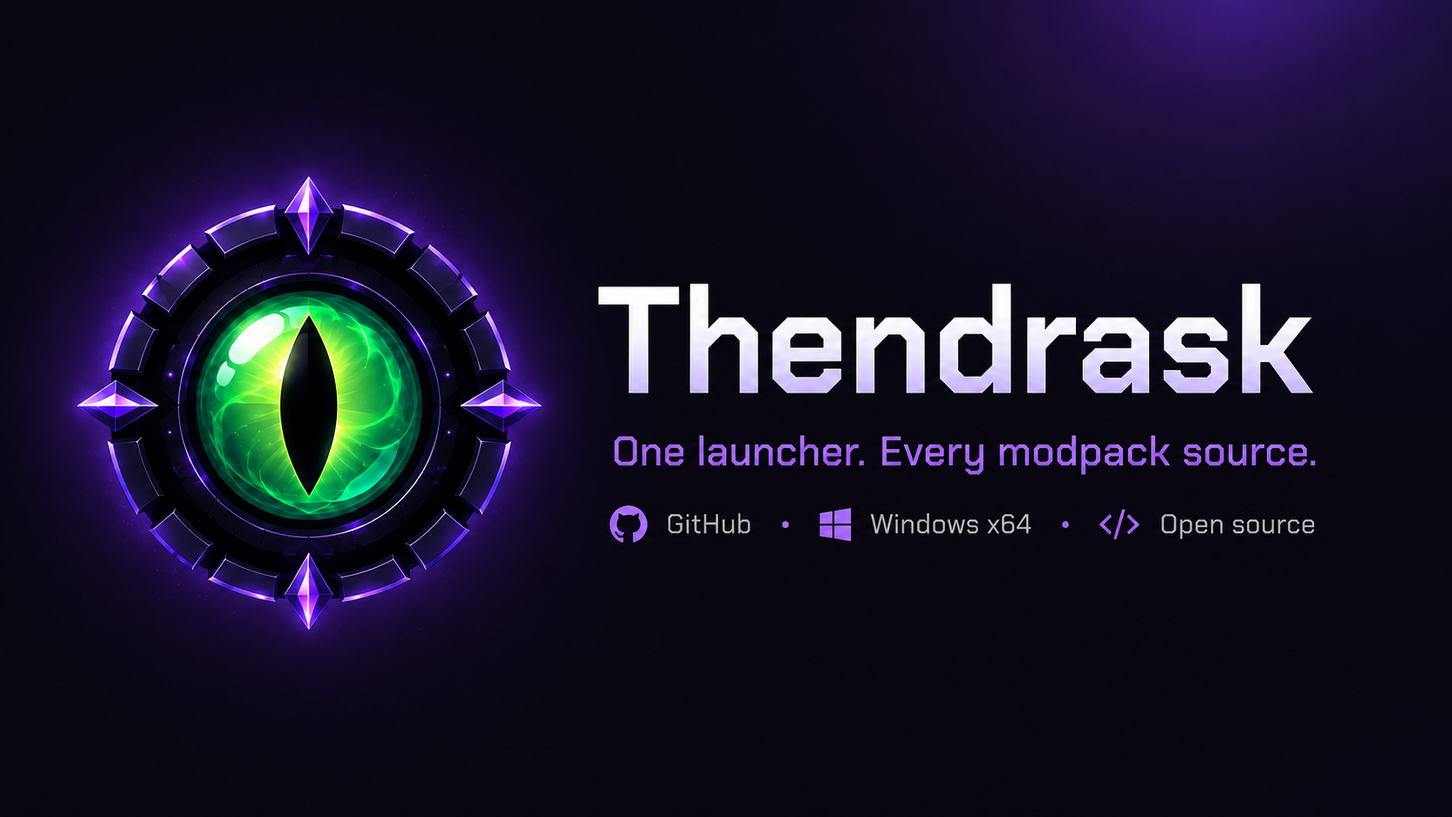
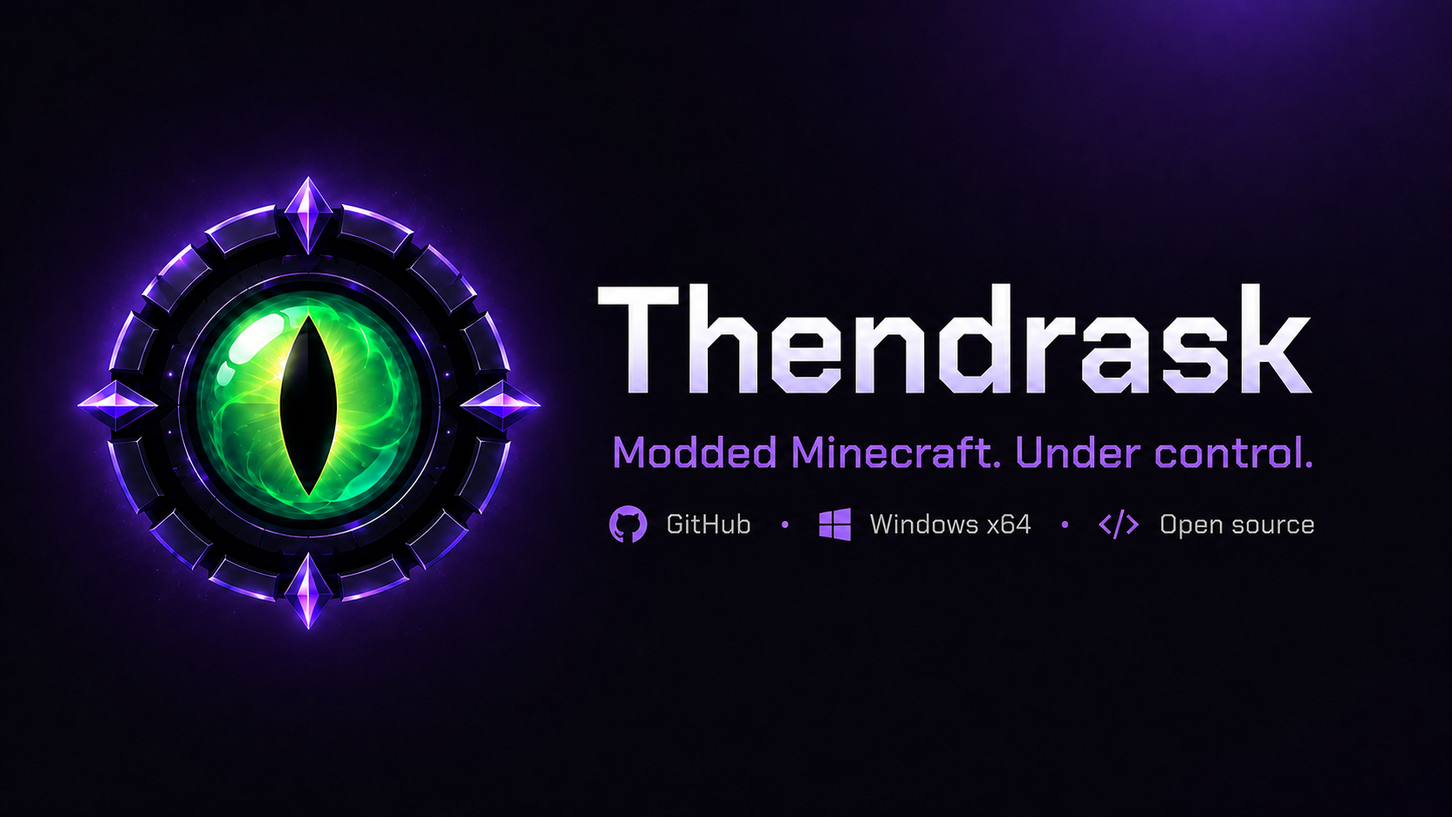
Align site with public mod sources (#3)

diff --git a/features.html b/features.html
@@ -4,7 +4,7 @@
 <meta charset="UTF-8" />
 <meta name="viewport" content="width=device-width, initial-scale=1.0" />
 <title>Features | Thendrask Launcher - Open-Source Minecraft Launcher</title>
-<meta name="description" content="Explore Thendrask Launcher: the optional GregTech Hub, GTNH updates and add-ons, six modpack sources, guided setup, safe updates, repair and backups." />
+<meta name="description" content="Explore Thendrask Launcher: Modrinth and FTB browsing, the optional GregTech Hub, guided setup, safe updates, repair and backups." />
 <link rel="canonical" href="https://thendrask.org/features" />
 
 <link rel="icon" href="assets/favicon.ico" sizes="any" />
@@ -16,7 +16,7 @@
 <meta property="og:type" content="website" />
 <meta property="og:url" content="https://thendrask.org/features" />
 <meta property="og:title" content="Features | Thendrask Launcher" />
-<meta property="og:description" content="Build custom packs, browse six sources, and protect instances with safe updates, snapshots, repair, diagnostics and portable backups." />
+<meta property="og:description" content="Build custom packs, browse Modrinth and FTB, and protect instances with safe updates, snapshots, repair, diagnostics and portable backups." />
 <meta property="og:image" content="https://thendrask.org/assets/og.png" />
 <meta property="og:site_name" content="Thendrask Launcher" />
 <meta name="twitter:card" content="summary_large_image" />
@@ -137,7 +137,7 @@
         <div class="feat-card glow reveal">
           <div class="ic"><svg viewBox="0 0 24 24" fill="none" stroke="currentColor" stroke-width="2" stroke-linecap="round" stroke-linejoin="round"><path d="M12 2v20M2 12h20"/><circle cx="12" cy="12" r="8"/></svg></div>
           <h3>Verified community add-ons</h3>
-          <p>Install curated GTNH community releases pinned to versions verified against the selected pack. The Hub also searches compatible GregTech mods across CurseForge and Modrinth.</p>
+          <p>Install curated GTNH community releases pinned to versions verified against the selected pack. The Hub also searches Modrinth for compatible GregTech mods.</p>
           <div class="detail"><ul>
             <li>Version-checked GTNH add-ons</li>
             <li>Required dependencies included</li>
@@ -164,7 +164,7 @@
         <div class="feat-card glow reveal">
           <div class="ic"><svg viewBox="0 0 24 24" fill="none" stroke="currentColor" stroke-width="2" stroke-linecap="round" stroke-linejoin="round"><path d="M5 12l4 4L19 6"/><path d="M4 4h16v16H4z"/></svg></div>
           <h3>Guided first run</h3>
-          <p>A short setup wizard walks through Microsoft sign-in, optional CurseForge access and community features. GregTech stays disabled unless you choose it.</p>
+          <p>A short setup wizard walks through Microsoft sign-in and optional community features. GregTech stays disabled unless you choose it.</p>
         </div>
         <div class="feat-card glow reveal">
           <div class="ic"><svg viewBox="0 0 24 24" fill="none" stroke="currentColor" stroke-width="2" stroke-linecap="round" stroke-linejoin="round"><path d="M4 8h16M4 16h16"/><circle cx="9" cy="8" r="2"/><circle cx="15" cy="16" r="2"/></svg></div>
@@ -186,13 +186,13 @@
       <div class="feat-row" data-stagger>
         <div class="feat-card glow reveal">
           <div class="ic"><svg viewBox="0 0 24 24" fill="none" stroke="currentColor" stroke-width="2" stroke-linecap="round" stroke-linejoin="round"><circle cx="11" cy="11" r="7"/><path d="m21 21-4.3-4.3"/></svg></div>
-          <h3>Six sources, one window</h3>
-          <p>Browse Modrinth, CurseForge, FTB (modern and legacy), ATLauncher, and Technic without switching apps or opening a browser. Search, filter by category, and sort by popular, updated, or newest.</p>
+          <h3>Modrinth and FTB, one window</h3>
+          <p>Browse Modrinth plus modern and legacy FTB packs without switching apps. Modrinth supports category filters and sorting by popular, updated, or newest.</p>
           <div class="detail">
             <ul>
               <li>Sort by popular, updated, or newest</li>
               <li>Filter by modpack category</li>
-              <li>One-click install from any source</li>
+              <li>Install supported packs in-app</li>
             </ul>
           </div>
         </div>
@@ -213,11 +213,8 @@
       <div class="sources-strip reveal">
         <span class="label">Supported sources</span>
         <span class="chip"><span class="d">›</span>Modrinth</span>
-        <span class="chip"><span class="d">›</span>CurseForge</span>
         <span class="chip"><span class="d">›</span>FTB</span>
         <span class="chip"><span class="d">›</span>FTB Legacy</span>
-        <span class="chip"><span class="d">›</span>ATLauncher</span>
-        <span class="chip"><span class="d">›</span>Technic</span>
       </div>
     </div>
 
@@ -229,7 +226,7 @@
         <div class="feat-card glow reveal">
           <div class="ic"><svg viewBox="0 0 24 24" fill="none" stroke="currentColor" stroke-width="2" stroke-linecap="round" stroke-linejoin="round"><path d="M12 3v18M3 12h18"/><circle cx="12" cy="12" r="9"/></svg></div>
           <h3>Custom modpack builder</h3>
-          <p>Start with Fabric, Forge, NeoForge or Quilt, then search Modrinth and CurseForge for mods that match that exact Minecraft version and loader.</p>
+          <p>Start with Fabric, Forge, NeoForge or Quilt, then search Modrinth for mods that match that exact Minecraft version and loader.</p>
           <div class="detail">
             <ul>
               <li>Compatibility-filtered mod search</li>
@@ -411,21 +408,21 @@
         <div class="cmp-row">
           <span class="cmp-feat">Browse CurseForge packs</span>
           <span class="cmp-support">Built in</span>
-          <span class="cmp-support">Built in</span>
+          <span class="cmp-none">Unavailable</span>
           <span class="cmp-support">Built in</span>
           <span class="cmp-none">Not built in</span>
         </div>
         <div class="cmp-row">
           <span class="cmp-feat">Browse ATLauncher packs</span>
           <span class="cmp-none">Not built in</span>
-          <span class="cmp-support">Built in</span>
+          <span class="cmp-none">Unavailable</span>
           <span class="cmp-support">Built in</span>
           <span class="cmp-none">Not built in</span>
         </div>
         <div class="cmp-row">
           <span class="cmp-feat">Browse Technic packs</span>
           <span class="cmp-none">Not built in</span>
-          <span class="cmp-support">Built in</span>
+          <span class="cmp-none">Unavailable</span>
           <span class="cmp-support">Built in</span>
           <span class="cmp-none">Not built in</span>
         </div>
@@ -475,7 +472,7 @@
       </div>
       <div class="comparison-disclosure reveal">
         <strong>About this matrix</strong>
-        <p>Last checked 27 July 2026 against public, official documentation. “Built in” means the launcher provides an integrated catalogue for browsing and installing that source; it does not cover manual archive imports. Prism’s FTB entry means FTB Legacy browsing plus FTB App import, not direct browsing of the current FTB catalogue.</p>
+        <p>Last checked 28 July 2026 against Thendrask’s current public-build policy and public, official documentation. “Built in” means the launcher provides an integrated catalogue for browsing and installing that source; it does not cover manual archive imports. CurseForge is temporarily disabled in Thendrask public builds. ATLauncher and Technic are unavailable pending explicit provider permission. Prism’s FTB entry means FTB Legacy browsing plus FTB App import, not direct browsing of the current FTB catalogue.</p>
         <p>Sources: <a class="link" href="https://prismlauncher.org/wiki/getting-started/download-modpacks/" target="_blank" rel="noopener">Prism pack providers</a>, <a class="link" href="https://modrinth.com/app/" target="_blank" rel="noopener">Modrinth App</a>, and <a class="link" href="https://support.curseforge.com/support/solutions/articles/9000218572-minecraft-getting-started" target="_blank" rel="noopener">CurseForge</a>. Third-party product names are trademarks of their respective owners. This independent compatibility matrix does not imply affiliation, sponsorship, or endorsement. If an entry has changed, <a class="link" href="https://github.com/Sxarlos/ThendraskLauncherSite/issues/new" target="_blank" rel="noopener">report a correction</a>.</p>
       </div>
     </div>

diff --git a/index.html b/index.html
@@ -3,8 +3,8 @@
 <head>
 <meta charset="UTF-8" />
 <meta name="viewport" content="width=device-width, initial-scale=1.0" />
-<title>Thendrask Launcher | Free Open-Source Minecraft Launcher for Modrinth &amp; CurseForge</title>
-<meta name="description" content="Every modpack source in one dependable, open-source Minecraft launcher. Browse Modrinth, CurseForge, FTB, ATLauncher and Technic, build custom instances, and recover safely." />
+<title>Thendrask Launcher | Free Open-Source Minecraft Launcher</title>
+<meta name="description" content="A dependable, open-source Minecraft launcher with Modrinth and FTB browsing, custom instances, safe updates, backups and recovery tools." />
 <link rel="canonical" href="https://thendrask.org/" />
 
 <link rel="icon" href="assets/favicon.ico" sizes="any" />
@@ -16,13 +16,13 @@
 <!-- Open Graph / social -->
 <meta property="og:type" content="website" />
 <meta property="og:url" content="https://thendrask.org/" />
-<meta property="og:title" content="Thendrask Launcher - Every modpack source. One dependable launcher." />
-<meta property="og:description" content="Browse and install packs from Modrinth, CurseForge, FTB, ATLauncher and Technic. Build custom instances and recover safely." />
+<meta property="og:title" content="Thendrask Launcher - Modded Minecraft, under control." />
+<meta property="og:description" content="Browse Modrinth and FTB packs, build custom instances, and recover safely with a free, open-source launcher." />
 <meta property="og:image" content="https://thendrask.org/assets/og.png" />
 <meta property="og:site_name" content="Thendrask Launcher" />
 <meta name="twitter:card" content="summary_large_image" />
-<meta name="twitter:title" content="Thendrask Launcher - Every modpack source" />
-<meta name="twitter:description" content="One dependable, open-source launcher for five major modpack services, custom instances and safe recovery." />
+<meta name="twitter:title" content="Thendrask Launcher - Modded Minecraft, under control" />
+<meta name="twitter:description" content="A dependable, open-source launcher with Modrinth and FTB browsing, custom instances and safe recovery." />
 <meta name="twitter:image" content="https://thendrask.org/assets/og.png" />
 <meta name="theme-color" content="#0A0911" />
 
@@ -327,8 +327,8 @@
     <div class="wrap hero-grid">
       <div>
         <span class="eyebrow">Open-source Minecraft launcher</span>
-        <h1>Every modpack source.<br /><span class="accent">One dependable launcher.</span></h1>
-        <p class="lede">Browse and install packs from Modrinth, CurseForge, FTB, ATLauncher and Technic. Build custom instances, keep them updated safely, and recover from problems without losing your worlds.</p>
+        <h1>Modded Minecraft.<br /><span class="accent">Under control.</span></h1>
+        <p class="lede">Browse and install packs from Modrinth and FTB, build custom instances, keep them updated safely, and recover from problems without losing your worlds.</p>
         <div class="cta-row">
           <a class="btn btn-primary" data-windows-download href="https://github.com/Sxarlos/ThendraskLauncher/releases/latest" target="_blank" rel="noopener">
             <svg viewBox="0 0 24 24" fill="none" stroke="currentColor" stroke-width="2.2" stroke-linecap="round" stroke-linejoin="round"><path d="M12 3v12m0 0 4-4m-4 4-4-4M5 21h14"/></svg>
@@ -380,11 +380,8 @@
       <div class="strip reveal">
         <span class="label">Browse &amp; install from</span>
         <span class="chip"><span class="d">›</span>Modrinth</span>
-        <span class="chip"><span class="d">›</span>CurseForge</span>
         <span class="chip"><span class="d">›</span>FTB</span>
         <span class="chip"><span class="d">›</span>FTB Legacy</span>
-        <span class="chip"><span class="d">›</span>ATLauncher</span>
-        <span class="chip"><span class="d">›</span>Technic</span>
       </div>
     </div>
   </section>
@@ -405,8 +402,8 @@
         </div>
         <div class="feat glow reveal">
           <div class="ic"><svg viewBox="0 0 24 24" fill="none" stroke="currentColor" stroke-width="2" stroke-linecap="round" stroke-linejoin="round"><circle cx="11" cy="11" r="7"/><path d="m21 21-4.3-4.3"/></svg></div>
-          <h3>Six-source modpack browser</h3>
-          <p>Search Modrinth, CurseForge, modern and legacy FTB, ATLauncher and Technic from one window, with sorting and category filters.</p>
+          <h3>Modrinth &amp; FTB browser</h3>
+          <p>Search Modrinth plus modern and legacy FTB packs from one window. Modrinth includes sorting and category filters.</p>
         </div>
         <div class="feat glow reveal">
           <div class="ic"><svg viewBox="0 0 24 24" fill="none" stroke="currentColor" stroke-width="2" stroke-linecap="round" stroke-linejoin="round"><rect x="3" y="3" width="7" height="7" rx="1.5"/><rect x="14" y="3" width="7" height="7" rx="1.5"/><rect x="3" y="14" width="7" height="7" rx="1.5"/><rect x="14" y="14" width="7" height="7" rx="1.5"/></svg></div>
@@ -436,7 +433,7 @@
         <div class="feat glow reveal">
           <div class="ic"><svg viewBox="0 0 24 24" fill="none" stroke="currentColor" stroke-width="2" stroke-linecap="round" stroke-linejoin="round"><path d="M5 12l4 4L19 6"/><path d="M4 4h16v16H4z"/></svg></div>
           <h3>Guided first-run setup</h3>
-          <p>A clear setup flow handles sign-in, optional CurseForge access and community features, while settings keep recommended RAM and fresh-instance video defaults under your control.</p>
+          <p>A clear setup flow handles sign-in and optional community features, while settings keep recommended RAM and fresh-instance video defaults under your control.</p>
         </div>
       </div>
       <div style="margin-top:28px;text-align:center;">
@@ -510,12 +507,12 @@
           <img src="assets/screenshots/gregtech-special-builds.png?v=20260721" data-lightbox data-caption="Preview beta and special GT New Horizons builds" alt="GregTech Hub showing stable GT New Horizons updates, beta previews, special builds and verified community releases" width="1180" height="760" loading="lazy" />
         </div>
         <div class="shot reveal">
-          <div class="chrome"><i></i><i></i><i></i><span>Discover packs across six sources</span></div>
-          <img src="assets/screenshots/browse.webp?v=20260721" data-lightbox data-caption="Discover packs across six sources" alt="Thendrask Launcher browsing popular Modrinth modpacks with version, category and loader filters" width="1440" height="900" loading="lazy" />
+          <div class="chrome"><i></i><i></i><i></i><span>Discover Modrinth and FTB packs</span></div>
+          <img src="assets/screenshots/browse.webp?v=20260721" data-lightbox data-caption="Discover Modrinth and FTB packs" alt="Thendrask Launcher browsing popular Modrinth modpacks with version, category and loader filters" width="1440" height="900" loading="lazy" />
         </div>
         <div class="shot reveal">
           <div class="chrome"><i></i><i></i><i></i><span>Build and tune your own modpack</span></div>
-          <img src="assets/screenshots/mods.webp?v=20260721" data-lightbox data-caption="Build and tune your own modpack" alt="Thendrask Launcher mod management screen with compatible Modrinth and CurseForge search, pack update and included mods" width="1440" height="900" loading="lazy" />
+          <img src="assets/screenshots/mods.webp?v=20260721" data-lightbox data-caption="Build and tune your own modpack" alt="Thendrask Launcher mod management screen with compatible Modrinth search, pack updates and included mods" width="1440" height="900" loading="lazy" />
         </div>
         <div class="shot reveal">
           <div class="chrome"><i></i><i></i><i></i><span>Snapshots, repair and portable backups</span></div>

diff --git a/faq.html b/faq.html
@@ -41,7 +41,7 @@
       "name": "Is Thendrask Launcher safe?",
       "acceptedAnswer": {
         "@type": "Answer",
-        "text": "Yes. Thendrask Launcher is fully open-source under the MIT license - every line of code is public on GitHub and can be audited by anyone. It uses Microsoft's official OAuth flow to sign you in, downloads modpacks from trusted sources (Modrinth, CurseForge, FTB, ATLauncher, Technic), and stores only an encrypted refresh token in your OS keychain."
+        "text": "Yes. Thendrask Launcher is fully open-source under the MIT license - every line of code is public on GitHub and can be audited by anyone. It uses Microsoft's official OAuth flow to sign you in, supports modpack downloads from Modrinth and FTB, and stores only an encrypted refresh token in your OS keychain."
       }
     },
     {
@@ -81,7 +81,7 @@
       "name": "What modpack sources does Thendrask Launcher support?",
       "acceptedAnswer": {
         "@type": "Answer",
-        "text": "Modrinth, CurseForge, FTB (modern and legacy), ATLauncher, and Technic - all browsable from a single window."
+        "text": "Public builds support browsing and installing from Modrinth, FTB, and FTB Legacy. CurseForge is temporarily disabled, while ATLauncher and Technic are unavailable pending explicit provider permission."
       }
     },
     {
@@ -97,7 +97,7 @@
       "name": "How do I install a modpack?",
       "acceptedAnswer": {
         "@type": "Answer",
-        "text": "Open Thendrask Launcher, sign in with your Microsoft account, open the modpack browser, find a pack, and hit Install. The launcher handles the rest automatically."
+        "text": "Open Thendrask Launcher, sign in with your Microsoft account, open the Library browser, choose Modrinth or FTB, find a pack, and hit Install. The launcher handles the rest automatically."
       }
     },
     {
@@ -266,7 +266,7 @@
               <svg class="faq-chevron" viewBox="0 0 24 24" fill="none" stroke="currentColor" stroke-width="2.2" stroke-linecap="round" stroke-linejoin="round"><path d="M6 9l6 6 6-6"/></svg>
             </summary>
             <div class="faq-body">
-              Yes. Thendrask Launcher is <strong>fully open-source under the MIT license</strong> - every line of code is public on <a href="https://github.com/Sxarlos/ThendraskLauncher" target="_blank" rel="noopener">GitHub</a> and can be audited by anyone. It uses Microsoft's official OAuth flow to sign you in, downloads modpacks from trusted sources (Modrinth, CurseForge, FTB, ATLauncher, Technic), and stores only an encrypted refresh token in your OS keychain. Your password is never seen or stored.
+              Yes. Thendrask Launcher is <strong>fully open-source under the MIT license</strong> - every line of code is public on <a href="https://github.com/Sxarlos/ThendraskLauncher" target="_blank" rel="noopener">GitHub</a> and can be audited by anyone. It uses Microsoft's official OAuth flow to sign you in, supports modpack downloads from Modrinth and FTB, and stores only an encrypted refresh token in your OS keychain. Your password is never seen or stored.
             </div>
           </details>
 
@@ -324,7 +324,7 @@
               <svg class="faq-chevron" viewBox="0 0 24 24" fill="none" stroke="currentColor" stroke-width="2.2" stroke-linecap="round" stroke-linejoin="round"><path d="M6 9l6 6 6-6"/></svg>
             </summary>
             <div class="faq-body">
-              Open Thendrask Launcher, sign in with your Microsoft account, then open the <strong>modpack browser</strong>. Choose a source (Modrinth, CurseForge, FTB, ATLauncher, or Technic), find a pack you like, and hit <strong>Install</strong>. The launcher handles the rest - downloading the pack, its mods, and the correct Minecraft version. Once complete, click Play from your library.
+              Open Thendrask Launcher, sign in with your Microsoft account, then open the browser in <strong>Library</strong>. Choose Modrinth or FTB, find a pack you like, and hit <strong>Install</strong>. The launcher handles the rest - downloading the pack, its mods, and the correct Minecraft version. Once complete, click Play from your library.
             </div>
           </details>
 
@@ -352,7 +352,7 @@
               <svg class="faq-chevron" viewBox="0 0 24 24" fill="none" stroke="currentColor" stroke-width="2.2" stroke-linecap="round" stroke-linejoin="round"><path d="M6 9l6 6 6-6"/></svg>
             </summary>
             <div class="faq-body">
-              <strong>Modrinth, CurseForge, FTB</strong> (modern and legacy), <strong>ATLauncher</strong>, and <strong>Technic</strong> - all browsable and installable from a single window inside the launcher. No browser tabs, no manual downloads.
+              Public builds can browse and install from <strong>Modrinth, FTB, and FTB Legacy</strong>. CurseForge integration is temporarily disabled. ATLauncher and Technic catalogue browsing and installation are unavailable pending explicit provider permission. Existing local instances and manually installed JAR files remain available.
             </div>
           </details>
 
@@ -410,7 +410,7 @@
               <svg class="faq-chevron" viewBox="0 0 24 24" fill="none" stroke="currentColor" stroke-width="2.2" stroke-linecap="round" stroke-linejoin="round"><path d="M6 9l6 6 6-6"/></svg>
             </summary>
             <div class="faq-body">
-              CurseForge is a large commercial launcher with ads and higher memory usage. Thendrask Launcher is <strong>ad-free, open-source</strong>, and uses far less RAM at idle. It also supports more modpack sources - Modrinth, FTB, ATLauncher, and Technic alongside CurseForge - so you're not limited to one platform. If you're looking for a <strong>CurseForge alternative</strong> that doesn't serve you ads, Thendrask Launcher is built for exactly that.
+              CurseForge is a commercial launcher centred on its own catalogue. Thendrask Launcher is <strong>ad-free and open-source</strong>, with Modrinth and FTB browsing plus custom instances, recovery tools, friends and server monitoring. CurseForge browsing and API-assisted imports are currently disabled in Thendrask public builds.
             </div>
           </details>
 

diff --git a/download.html b/download.html
@@ -4,7 +4,7 @@
 <meta charset="UTF-8" />
 <meta name="viewport" content="width=device-width, initial-scale=1.0" />
 <title>Download | Thendrask Launcher - Free Minecraft Launcher for Windows</title>
-<meta name="description" content="Download Thendrask Launcher - a free, open-source Minecraft launcher for Windows. Supports Modrinth, CurseForge, FTB, ATLauncher and Technic. No ads. MIT licensed." />
+<meta name="description" content="Download Thendrask Launcher - a free, open-source Minecraft launcher for Windows with Modrinth and FTB support. No ads. MIT licensed." />
 <link rel="canonical" href="https://thendrask.org/download" />
 
 <link rel="icon" href="assets/favicon.ico" sizes="any" />
@@ -16,7 +16,7 @@
 <meta property="og:type" content="website" />
 <meta property="og:url" content="https://thendrask.org/download" />
 <meta property="og:title" content="Download Thendrask Launcher - Free Minecraft Launcher" />
-<meta property="og:description" content="Free, open-source Minecraft launcher for Windows. Browse Modrinth, CurseForge, FTB, ATLauncher and Technic - no ads, MIT licensed." />
+<meta property="og:description" content="Free, open-source Minecraft launcher for Windows with Modrinth and FTB browsing - no ads, MIT licensed." />
 <meta property="og:image" content="https://thendrask.org/assets/og.png" />
 <meta property="og:site_name" content="Thendrask Launcher" />
 <meta name="twitter:card" content="summary_large_image" />
@@ -267,7 +267,7 @@
           <span class="step-num">STEP 04</span>
           <div class="step-content">
             <h4>Browse, install, play</h4>
-            <p>Open the modpack browser, pick a source (Modrinth, CurseForge, FTB, ATLauncher, or Technic), install a pack, and hit Play. First launch downloads the game version and assets automatically.</p>
+            <p>Open the modpack browser, choose Modrinth or FTB, install a pack, and hit Play. First launch downloads the game version and assets automatically.</p>
           </div>
         </div>
       </div>

diff --git a/assets/site.js b/assets/site.js
@@ -47,11 +47,11 @@ import {
           operatingSystem: 'Windows, macOS, Linux',
           offers: { '@type': 'Offer', price: '0', priceCurrency: 'USD' },
           softwareVersion: CURRENT_VERSION,
-          description: 'Free, open-source Minecraft launcher for Modrinth, CurseForge, FTB, ATLauncher and Technic, with custom instances, safe updates, recovery tools and an optional GregTech Hub.',
+          description: 'Free, open-source Minecraft launcher with Modrinth and FTB browsing, custom instances, safe updates, recovery tools and an optional GregTech Hub.',
           url: 'https://thendrask.org/',
           image: 'https://thendrask.org/assets/og.png',
           downloadUrl: WINDOWS_DOWNLOAD,
-          featureList: 'Secure Microsoft login, automatic Java runtime management, optional GregTech Hub, multi-source modpack browser, custom instances, safe updates with rollback, snapshots, portable backups, repair and sanitized diagnostics',
+          featureList: 'Secure Microsoft login, automatic Java runtime management, optional GregTech Hub, Modrinth and FTB modpack browsing, custom instances, safe updates with rollback, snapshots, portable backups, repair and sanitized diagnostics',
           softwareRequirements: 'Windows 10 or 11, 64-bit; 4 GB RAM minimum; Microsoft account that owns Minecraft: Java Edition; internet connection for setup, authentication and downloads',
           license: 'https://opensource.org/licenses/MIT',
           author: { '@type': 'Person', name: 'Sxarlos' }

diff --git a/README.md b/README.md
@@ -1,6 +1,6 @@
 # Thendrask Launcher — Marketing Site
 
-The landing page for [Thendrask Launcher](https://github.com/Sxarlos/ThendraskLauncher), an open-source Minecraft launcher with a dedicated GregTech Hub plus browsing for Modrinth, CurseForge, FTB, ATLauncher, and Technic in one place.
+The landing page for [Thendrask Launcher](https://github.com/Sxarlos/ThendraskLauncher), an open-source Minecraft launcher with a dedicated GregTech Hub plus Modrinth and FTB browsing.
 
 ## Stack
 
